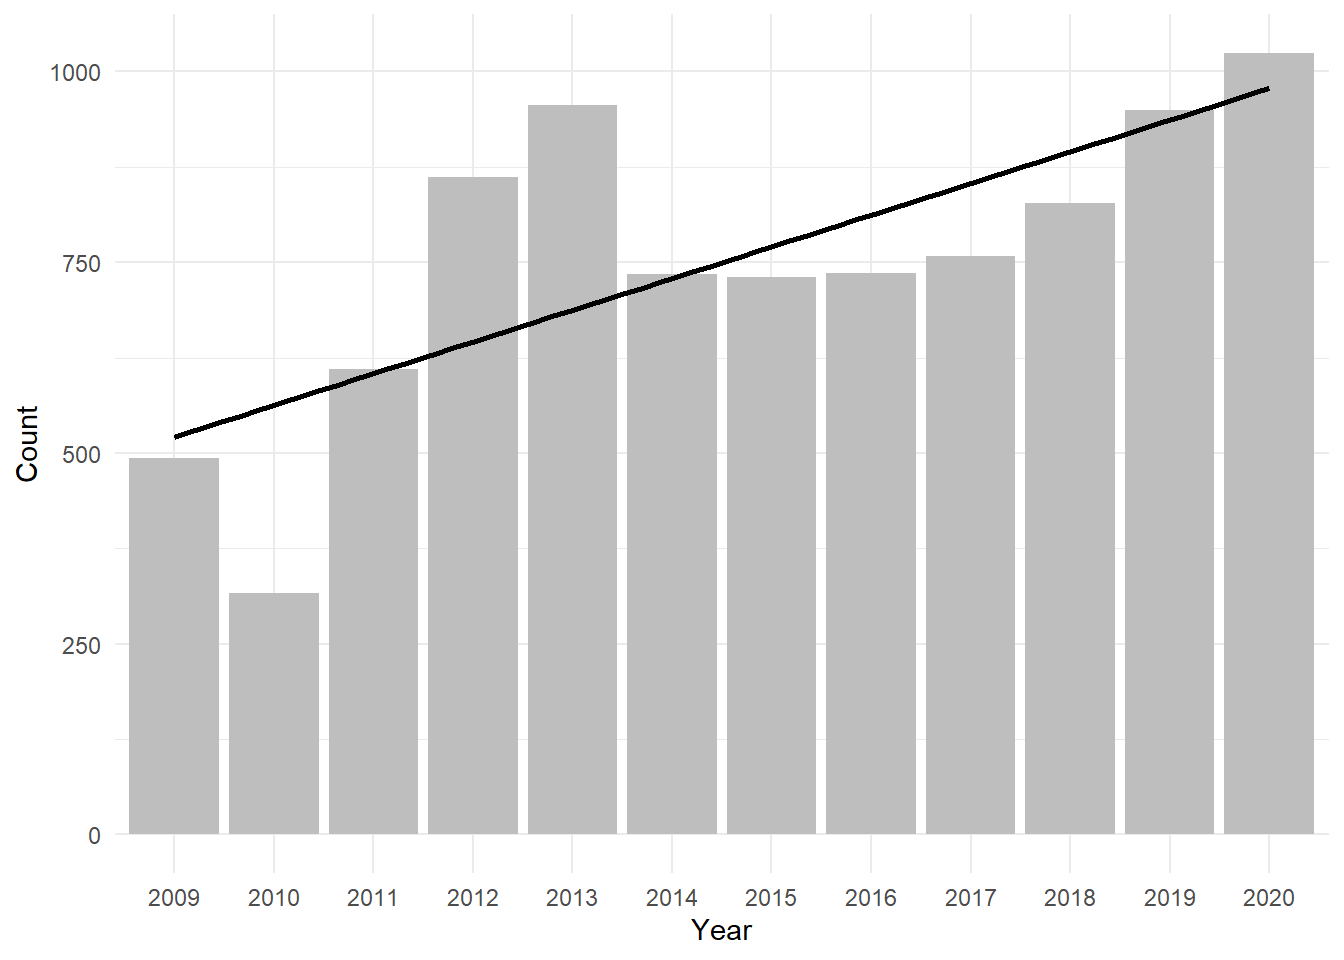
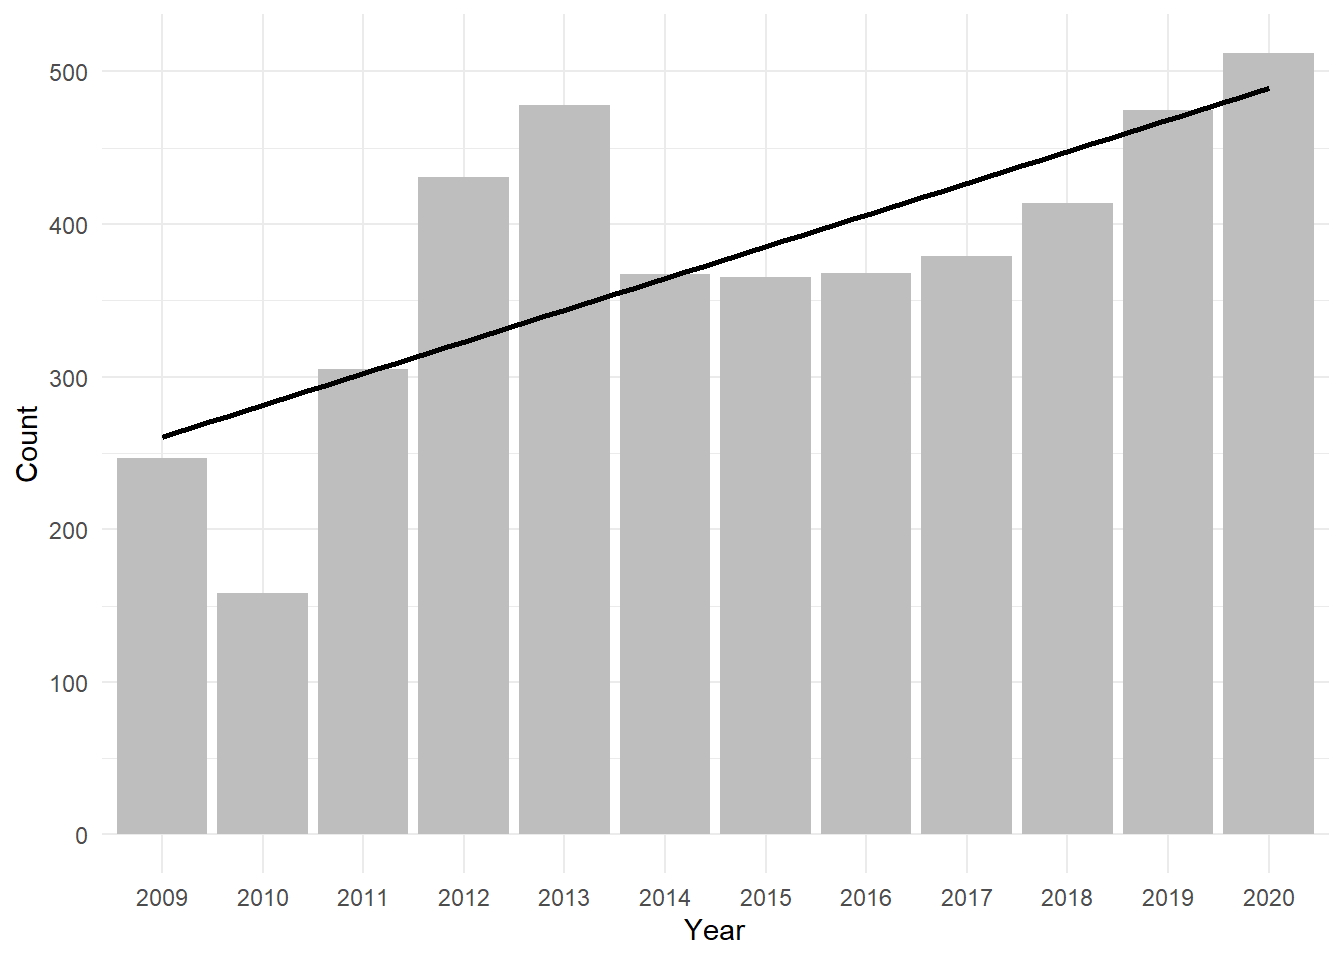
Revised

diff --git a/docs/data-exploration.html b/docs/data-exploration.html
@@ -196,18 +196,11 @@ code span.wa { color: #60a0b0; font-weight: bold; font-style: italic; } /* Warni
 <div id="summary-statistics" class="section level2 hasAnchor" number="3.1">
 <h2><span class="header-section-number">3.1</span> Summary statistics<a href="data-exploration.html#summary-statistics" class="anchor-section" aria-label="Anchor link to header"></a></h2>
 <p>How many wolves in the data set were harvested?</p>
-<div class="sourceCode" id="cb6"><pre class="sourceCode r"><code class="sourceCode r"><span id="cb6-1"><a href="data-exploration.html#cb6-1" tabindex="-1"></a>wolf_id <span class="sc">%&gt;%</span></span>
-<span id="cb6-2"><a href="data-exploration.html#cb6-2" tabindex="-1"></a>  <span class="fu">summarise</span>(<span class="at">total_wolves =</span> <span class="fu">n_distinct</span>(UI_ID), </span>
-<span id="cb6-3"><a href="data-exploration.html#cb6-3" tabindex="-1"></a>            <span class="at">total_wolves_harvested =</span> <span class="fu">sum</span>(mort_tag <span class="sc">!=</span> <span class="st">&quot;&quot;</span> <span class="sc">&amp;</span> <span class="sc">!</span><span class="fu">is.na</span>(mort_tag))) <span class="sc">%&gt;%</span></span>
-<span id="cb6-4"><a href="data-exploration.html#cb6-4" tabindex="-1"></a>  tidyr<span class="sc">::</span><span class="fu">pivot_longer</span>(<span class="at">cols =</span> <span class="fu">everything</span>(),</span>
-<span id="cb6-5"><a href="data-exploration.html#cb6-5" tabindex="-1"></a>                      <span class="at">names_to =</span> <span class="st">&quot;category&quot;</span>,</span>
-<span id="cb6-6"><a href="data-exploration.html#cb6-6" tabindex="-1"></a>                      <span class="at">values_to =</span> <span class="st">&quot;count&quot;</span>)</span></code></pre></div>
-<pre><code>## # A tibble: 2 × 2
-##   category               count
-##   &lt;chr&gt;                  &lt;int&gt;
-## 1 total_wolves            2586
-## 2 total_wolves_harvested  1585</code></pre>
-<p>1585 wolves were harvested, according to this database.</p>
+<div class="sourceCode" id="cb6"><pre class="sourceCode r"><code class="sourceCode r"><span id="cb6-1"><a href="data-exploration.html#cb6-1" tabindex="-1"></a>harvest <span class="sc">%&gt;%</span></span>
+<span id="cb6-2"><a href="data-exploration.html#cb6-2" tabindex="-1"></a>  <span class="fu">summarise</span>(<span class="at">total_wolves_harvested =</span> <span class="fu">n_distinct</span>(mort_tag))</span></code></pre></div>
+<pre><code>##   total_wolves_harvested
+## 1                   4661</code></pre>
+<p>4661 wolves were harvested, according to this database.</p>
 </div>
 <div id="data-visualization" class="section level2 hasAnchor" number="3.2">
 <h2><span class="header-section-number">3.2</span> Data visualization<a href="data-exploration.html#data-visualization" class="anchor-section" aria-label="Anchor link to header"></a></h2>
@@ -216,7 +209,7 @@ code span.wa { color: #60a0b0; font-weight: bold; font-style: italic; } /* Warni
 <h3><span class="header-section-number">3.2.1</span> How many wolves were harvested each year?<a href="data-exploration.html#how-many-wolves-were-harvested-each-year" class="anchor-section" aria-label="Anchor link to header"></a></h3>
 <div class="sourceCode" id="cb8"><pre class="sourceCode r"><code class="sourceCode r"><span id="cb8-1"><a href="data-exploration.html#cb8-1" tabindex="-1"></a>harvest <span class="sc">%&gt;%</span></span>
 <span id="cb8-2"><a href="data-exploration.html#cb8-2" tabindex="-1"></a>  <span class="fu">group_by</span>(harvest_year) <span class="sc">%&gt;%</span></span>
-<span id="cb8-3"><a href="data-exploration.html#cb8-3" tabindex="-1"></a>  <span class="fu">summarise</span>(<span class="at">animals_harvested =</span> <span class="fu">n</span>()) <span class="sc">%&gt;%</span> </span>
+<span id="cb8-3"><a href="data-exploration.html#cb8-3" tabindex="-1"></a>  <span class="fu">summarise</span>(<span class="at">animals_harvested =</span> <span class="fu">n_distinct</span>(mort_tag)) <span class="sc">%&gt;%</span> </span>
 <span id="cb8-4"><a href="data-exploration.html#cb8-4" tabindex="-1"></a>  <span class="fu">filter</span>(harvest_year <span class="sc">!=</span><span class="dv">2021</span>) <span class="sc">%&gt;%</span></span>
 <span id="cb8-5"><a href="data-exploration.html#cb8-5" tabindex="-1"></a>  <span class="fu">ggplot</span>(<span class="fu">aes</span>(<span class="at">x =</span> <span class="fu">factor</span>(harvest_year), </span>
 <span id="cb8-6"><a href="data-exploration.html#cb8-6" tabindex="-1"></a>             <span class="at">y =</span> animals_harvested)) <span class="sc">+</span></span>

diff --git a/docs/index.html b/docs/index.html
@@ -223,9 +223,9 @@ Figure 1.3: Demonstrating how a wolf trap works
 </div>
 <p>We also use conduct field work (lots of hiking and howling) (Figure 1.4) to find wolves and collect genetic samples (i.e., scat) (Figure 1.5) from every individual in a study pack. This allows us to obtain individual genetic identifications of wolf packs and in combination with IDFG harvest data allow us to study the potential effects of hunting and trapping on wolves.</p>
 <div class="figure" style="text-align: center"><span style="display:block;" id="fig:unnamed-chunk-4"></span>
-<img src="images/surveying.jpg" alt="Surveying for wolves in Idaho, summer 2024." width="50%" />
+<img src="images/surveying.jpg" alt="Surveying for wolves in Idaho, summer 2024" width="50%" />
 <p class="caption">
-Figure 1.4: Surveying for wolves in Idaho, summer 2024.
+Figure 1.4: Surveying for wolves in Idaho, summer 2024
 </p>
 </div>
 <div class="figure" style="text-align: center"><span style="display:block;" id="fig:unnamed-chunk-5"></span>
